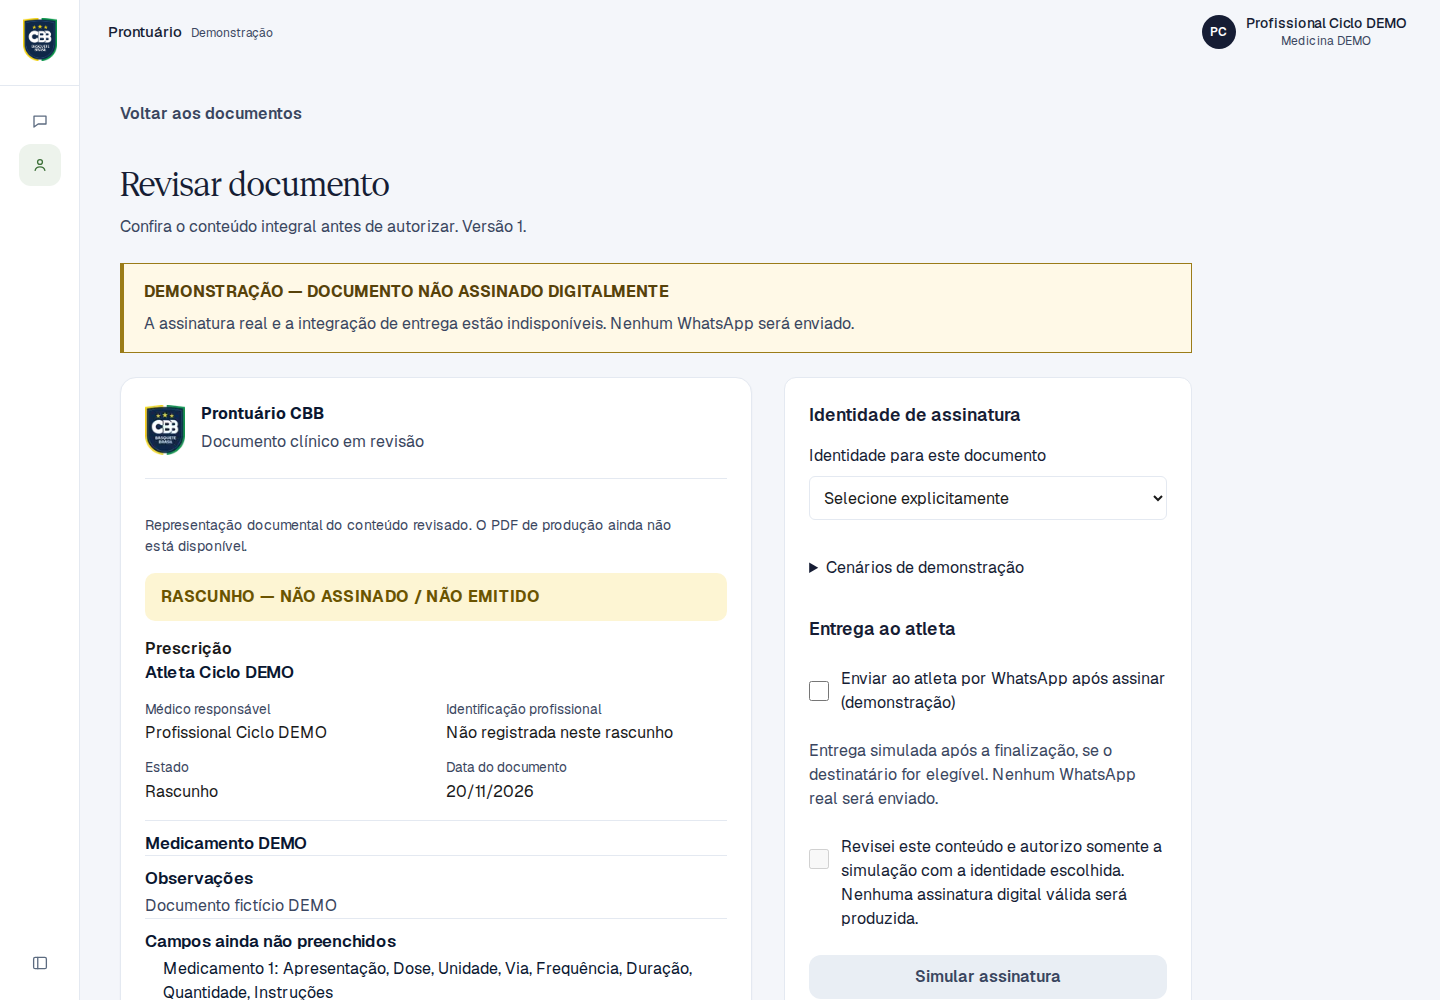
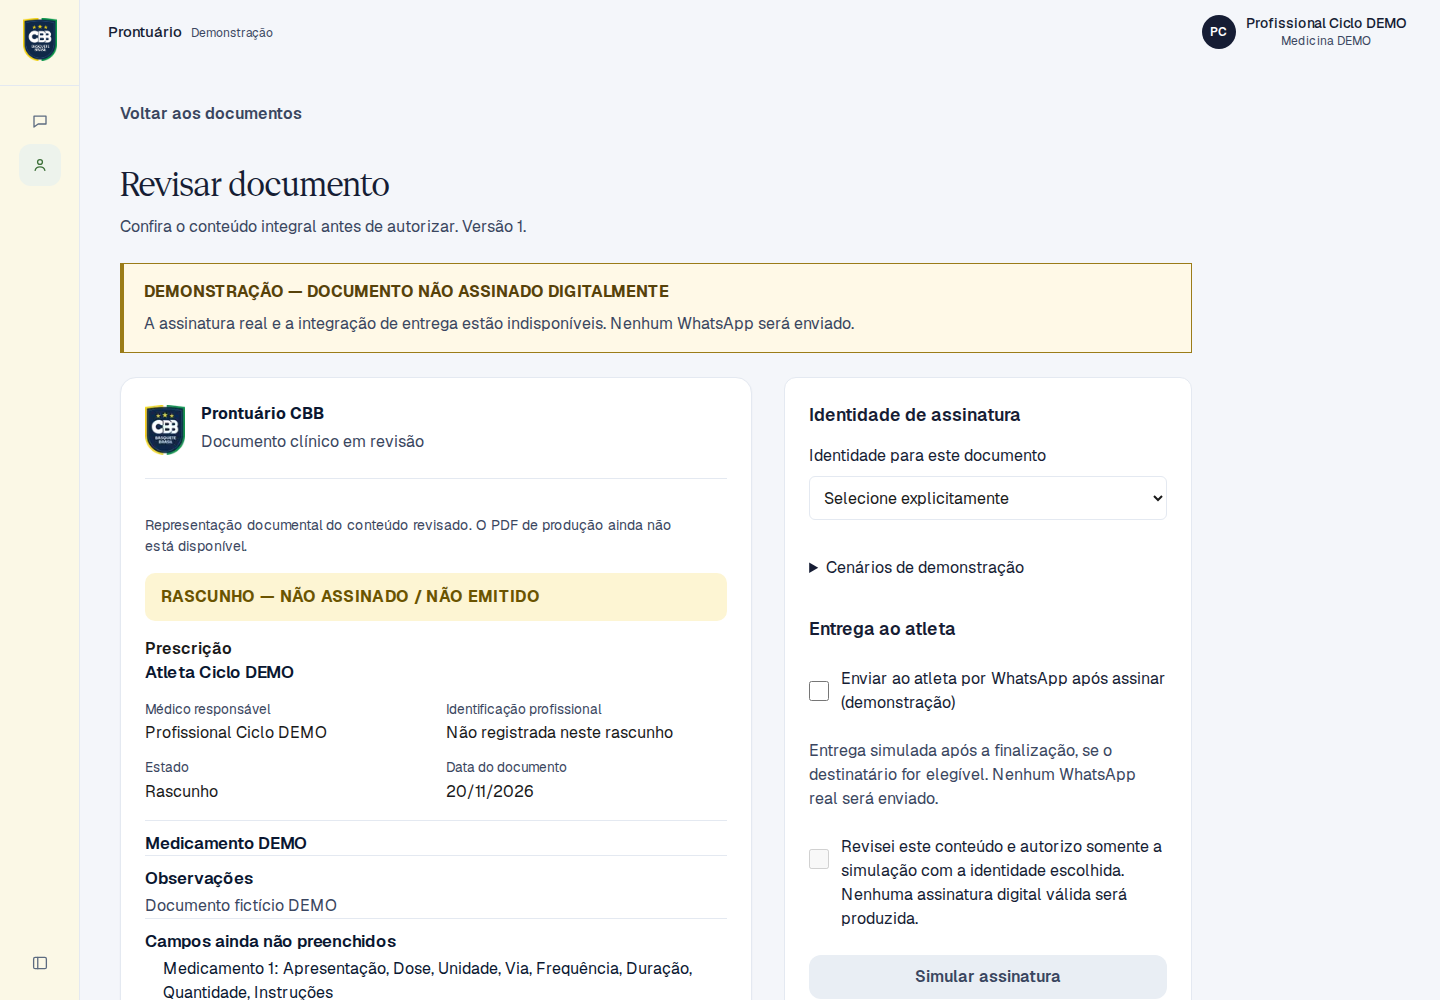
style: add subtle institutional yellow to navigation sidebar

Changed region(s): [[0.0, 0.0, 0.0625, 1.0]]

diff --git a/src/app/globals.css b/src/app/globals.css
@@ -5,6 +5,7 @@
   --cbb-navy: #161d34;
   --cbb-green: #3d7039;
   --cbb-yellow: #e0c42d;
+  --sidebar-surface: #fbf8e6;
   --navy-hover: #1a375f;
   --navy-active: #224270;
   --navy-line: rgb(255 255 255 / .12);
@@ -133,7 +134,7 @@ textarea::placeholder, input::placeholder { color: var(--muted); opacity: 1; }
 .workspace-shell h1 { font-family: var(--font-geist), sans-serif; font-weight: 600; font-size: 1.75rem; letter-spacing: -.02em; line-height: 1.15; color: var(--cbb-navy); }
 .workspace-shell h1.athlete-name { font-family: var(--font-geist-serif-regular), "Times New Roman", serif; font-weight: 400; font-synthesis: none; font-size: 2rem; letter-spacing: -.03em; line-height: 1.08; white-space: nowrap; text-wrap: nowrap; }
 .workspace-shell ::selection { background: var(--brand-soft); color: var(--cbb-navy); }
-.workspace-sidebar { position: sticky; top: 0; z-index: 2; height: 100svh; display: flex; flex-direction: column; align-items: center; gap: .35rem; width: 80px; padding: 1.15rem 0 1rem; background: #fff; border-right: 1px solid #e4e9f1; scrollbar-color: #c5d0de transparent; }
+.workspace-sidebar { position: sticky; top: 0; z-index: 2; height: 100svh; display: flex; flex-direction: column; align-items: center; gap: .35rem; width: 80px; padding: 1.15rem 0 1rem; background: var(--sidebar-surface); border-right: 1px solid #e4e9f1; scrollbar-color: #c5d0de transparent; }
 .workspace-shell.is-wide .workspace-sidebar { align-items: stretch; width: 232px; padding-inline: .75rem; }
 .sidebar-brand { display: grid; place-items: center; width: 42px; height: 42px; margin-bottom: .35rem; border-radius: 12px; }
 .sidebar-brand .brand-mark { width: 34px; height: auto; }

diff --git a/src/features/chat/intelligence.css b/src/features/chat/intelligence.css
@@ -38,7 +38,7 @@
   width: 80px;
   height: 100svh;
   padding: 1.15rem 0 1rem;
-  background: #fff;
+  background: var(--sidebar-surface);
   border-right: 1px solid var(--ia-line);
 }
 .ia-brand {

diff --git a/docs/HANDOFF-007-10-6C-REPORT.md b/docs/HANDOFF-007-10-6C-REPORT.md
@@ -16,7 +16,7 @@ Somente três arquivos de produção alterados, todos CSS:
 - `src/features/chat/intelligence.css`: marca consistente, ações apropriadas em verde, hover/active, seleção e foco. Voz/informação continuam semânticas; a última palavra da saudação passou a usar o verde institucional por solicitação posterior do usuário, inclusive no estilo inline do texto animado e na versão de movimento reduzido.
 - `src/features/documents/documents.css`: cores anteriores fixadas exclusivamente na folha documental, por contexto, para impedir alteração silenciosa de sua apresentação.
 
-Sidebar continua clara; fundos existentes mantidos. Tipografia, escala, espaçamentos, larguras de borda, raios, grid, navegação e formulários preservados. Nenhum JSX, contrato, API, autorização, auditoria ou backend alterado. Ações destrutivas e secundárias mantêm sua hierarquia.
+Sidebar continua clara, agora com amarelo muito suave `#FBF8E6` no token compartilhado `--sidebar-surface`, aplicado à barra de navegação esquerda do workspace e do Intelligence por solicitação posterior do usuário. Lista de conversas, conteúdo e estados clínicos preservados. Demais fundos existentes mantidos. Tipografia, escala, espaçamentos, larguras de borda, raios, grid, navegação e formulários preservados. Nenhum JSX, contrato, API, autorização, auditoria ou backend alterado. Ações destrutivas e secundárias mantêm sua hierarquia.
 
 ## Tokens
 
